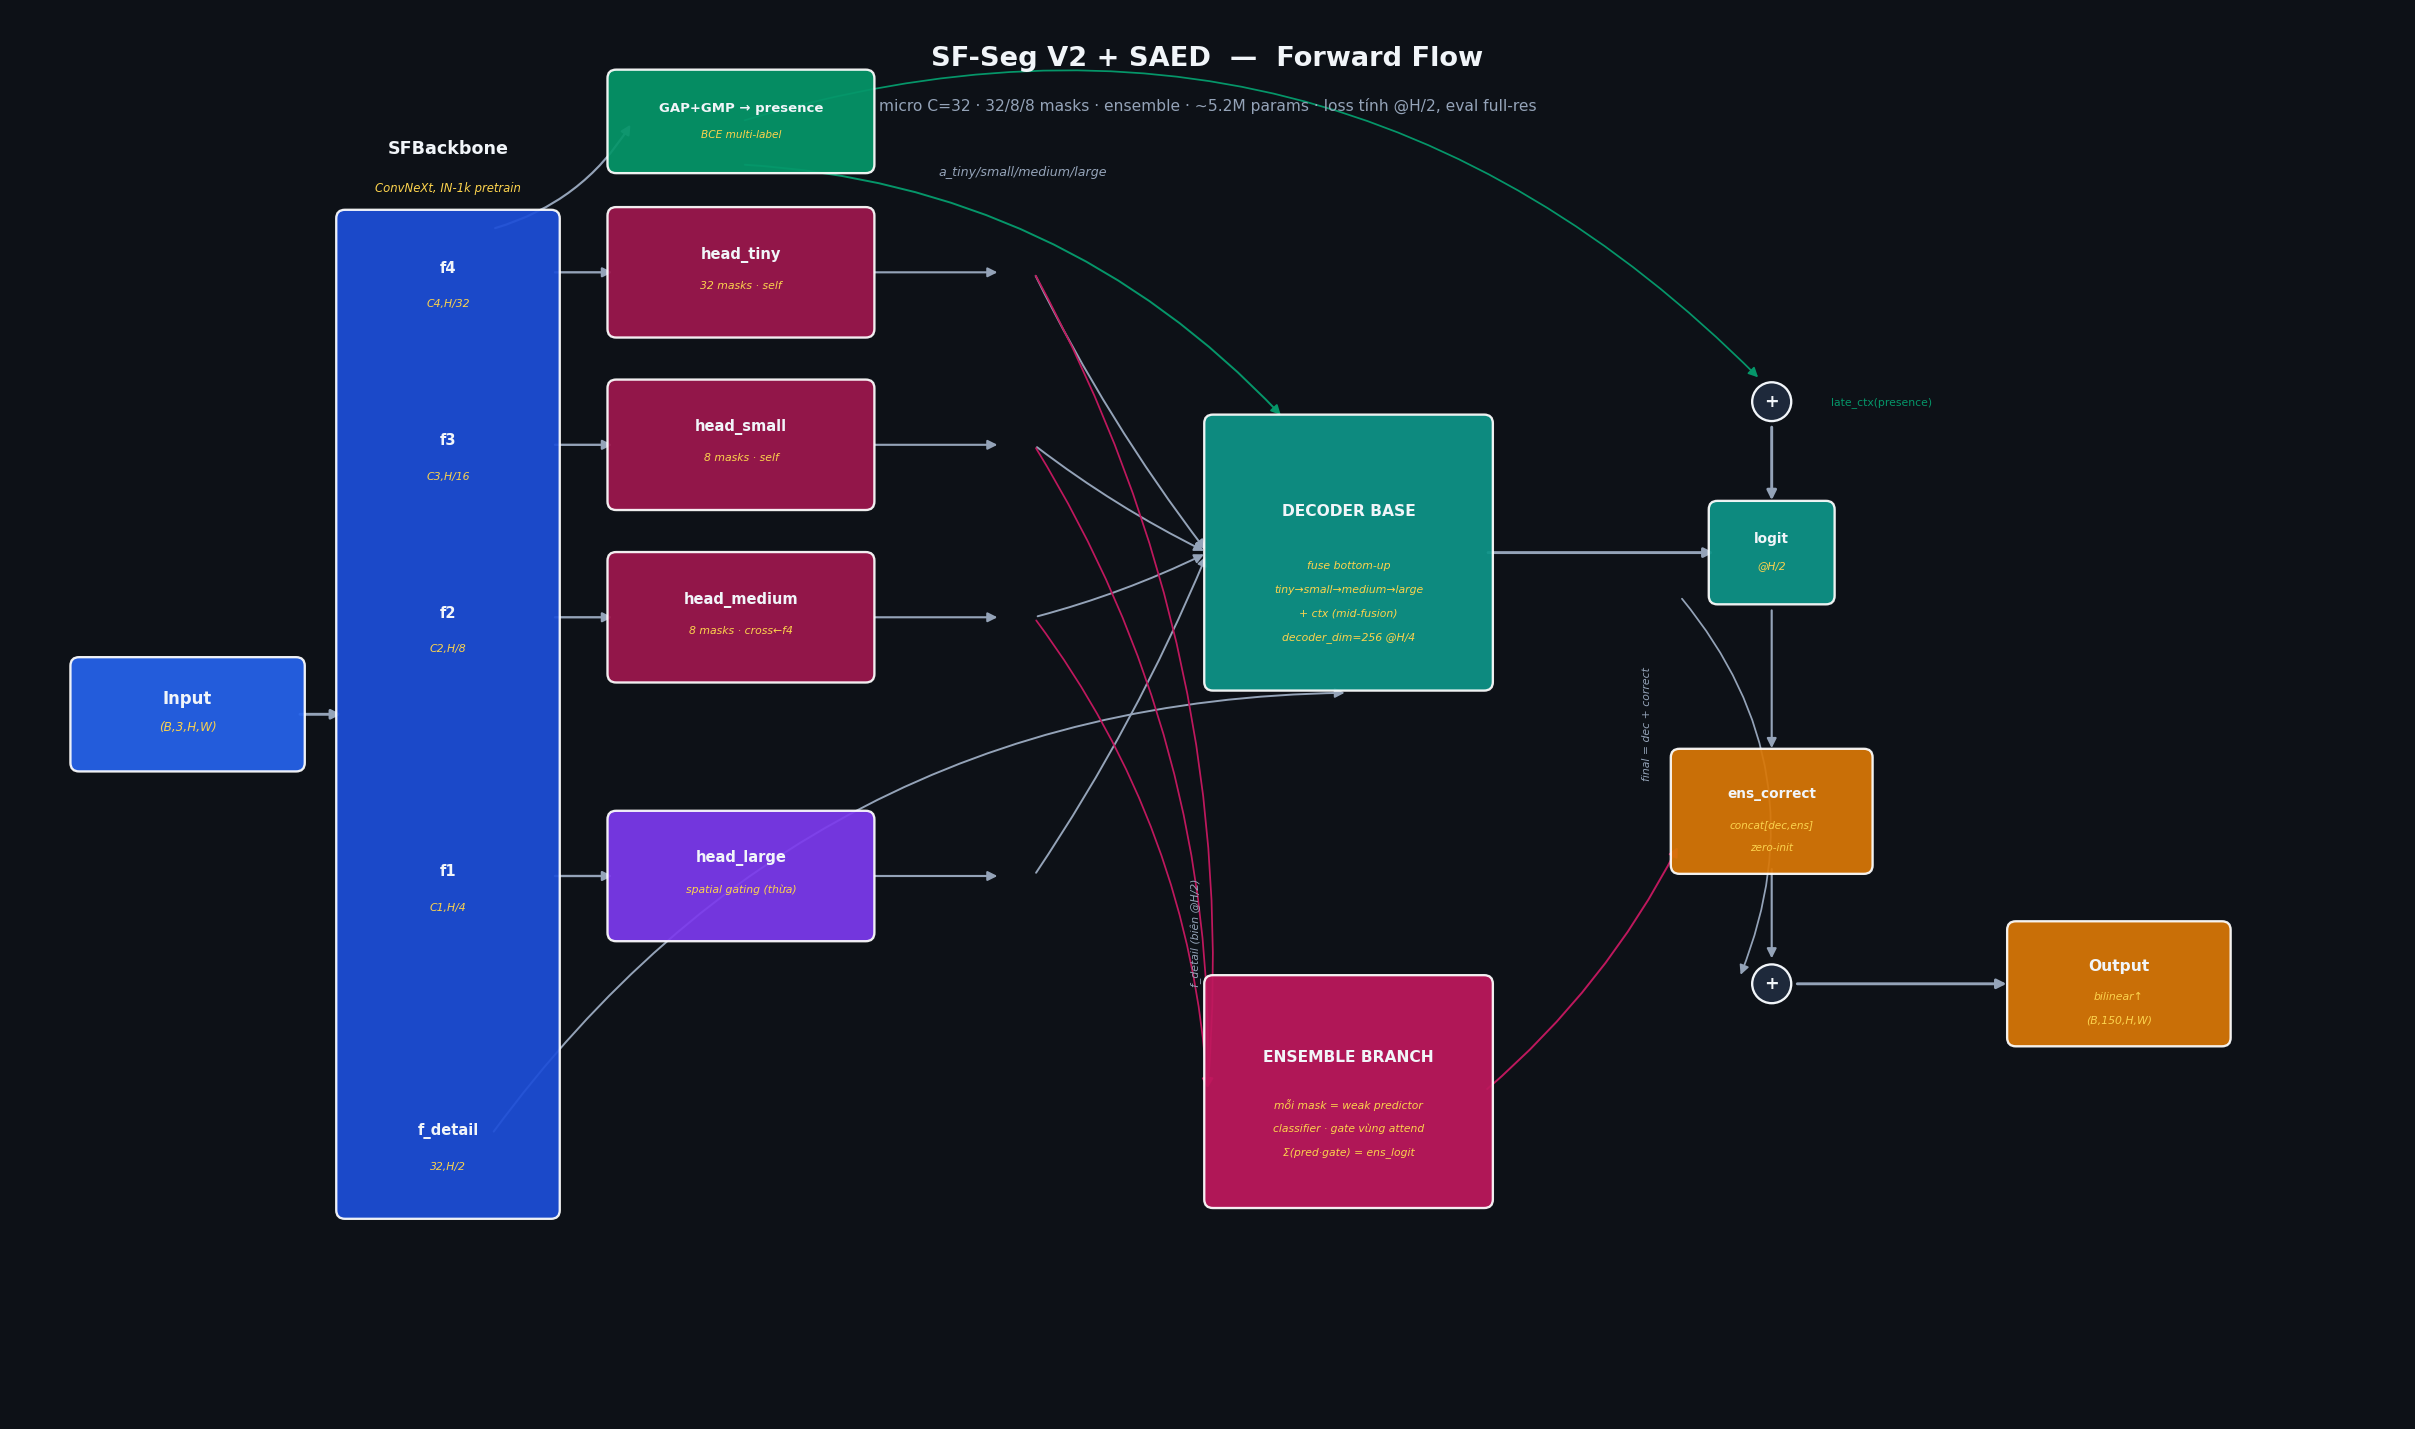
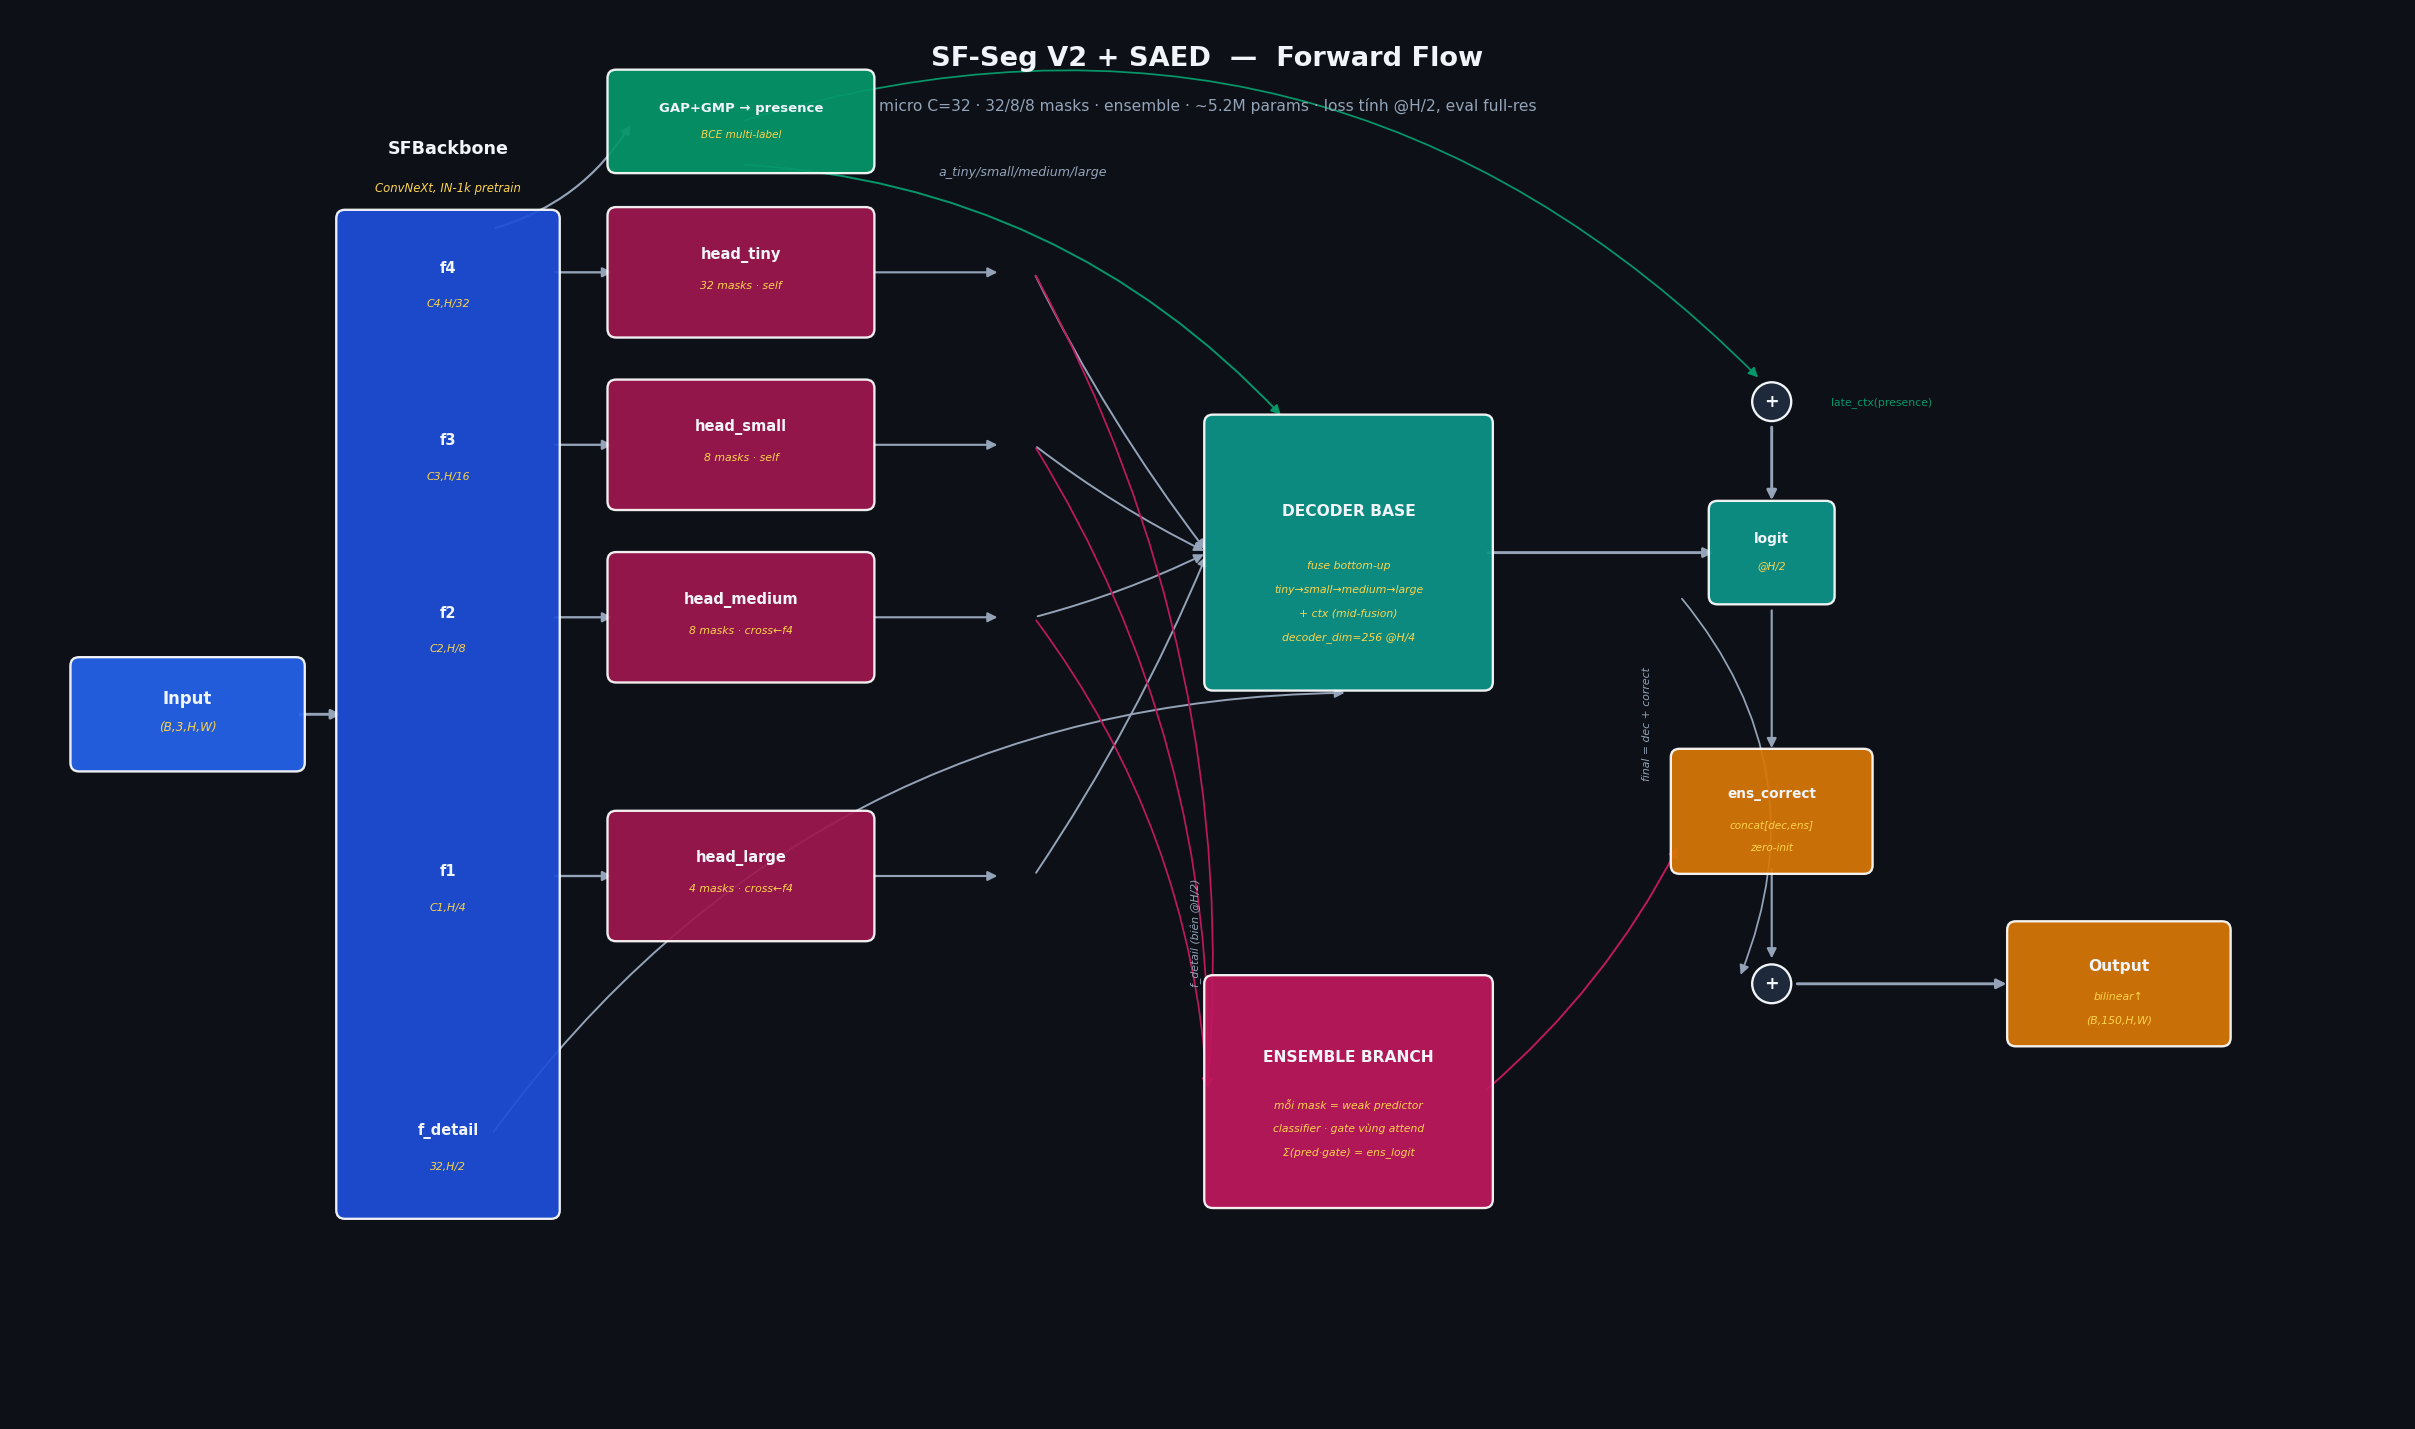
docs: cap nhat MODEL.md + README + diagrams cho top-k sparse + head_large sparse + PE fix
- top-k softmax thay clamp (sparse that), giai thich vi sao clamp khong sparse
- head_large: spatial-gating → SparseAttnHead cross-attn (ca 4 head sparse)
- PE _apply_pe scale theo magnitude (fix sin/cos dominance)
- L_mask region-gated + attn_op/temperature/ensemble vao config table
- regenerate saed_*.png khop kien truc moi; README tro vao saed diagrams + MODEL.md

Changed region(s): [[0.2484, 0.5542, 0.3727, 0.6774]]

diff --git a/scripts/diagram_saed.py b/scripts/diagram_saed.py
@@ -74,7 +74,7 @@ def forward_flow():
         ax.text(XBB, y-0.32, sh, ha='center', fontsize=5.6, color=SH, style='italic')
     # heads
     heads = [('head_tiny','32 masks · self',10.6,C_ATTN),('head_small','8 masks · self',9.0,C_ATTN),
-             ('head_medium','8 masks · cross←f4',7.4,C_ATTN),('head_large','spatial gating (thừa)',5.0,C_HEAD)]
+             ('head_medium','8 masks · cross←f4',7.4,C_ATTN),('head_large','4 masks · cross←f4',5.0,C_ATTN)]
     for nm, sub, y, col in heads:
         box(ax, XHD, y, 2.3, 1.05, col, nm, sub, tsz=7.5, ssz=5.6)
         arr(ax, XBB+0.95, y, XHD-1.15, y, lw=1.2)
@@ -122,8 +122,8 @@ def forward_flow():
 def sparse_head():
     FW, FH = 18, 10
     fig, ax = setup(FW, FH)
-    title(ax, FW, FH, 'SparseAttnHead  —  budget attention + per-mask weak predictor',
-          'decoupled qk_dim=32 · temperature τ học được · budget ladder · clamped_softmax')
+    title(ax, FW, FH, 'SparseAttnHead  —  top-k sparse attention + per-mask weak predictor',
+          'decoupled qk_dim=32 · temperature τ học được · budget ladder · top-k softmax (sparse thật)')
     box(ax, 1.6, 5.0, 1.7, 1.0, C_IN, 'feature', 'f (C,h,w)')
     # Q K V
     box(ax, 4.2, 7.5, 1.6, 0.8, C_HEAD, 'q_proj', 'M×32', tsz=7.5, ssz=5.8)
@@ -136,10 +136,10 @@ def sparse_head():
     box(ax, 6.9, 6.85, 1.8, 0.9, C_ATTN, 'Q·Kᵀ · scale / τ', 'sim (M,N,N_k)', tsz=7, ssz=5.6)
     arr(ax, 5.0,7.5, 6.1,7.0, lw=1.1); arr(ax, 5.0,6.2, 6.1,6.7, lw=1.1)
     # clamp
-    box(ax, 9.5, 6.85, 2.0, 1.0, C_ATTN, 'clamped_softmax', 'budget k/mask\n(ladder)', tsz=7.5, ssz=5.5)
+    box(ax, 9.5, 6.85, 2.0, 1.0, C_ATTN, 'top-k softmax', 'k/mask (ladder)', tsz=7.5, ssz=5.5)
     arr(ax, 7.8,6.85, 8.5,6.85, lw=1.3)
-    ax.text(9.5, 5.55, 'Σ attn = k · cap 1/token', ha='center', fontsize=5.8, color=LGRAY, style='italic')
-    ax.text(9.5, 5.2, '(hiện 0% hard-zero → soft)', ha='center', fontsize=5.8, color='#F87171', style='italic')
+    ax.text(9.5, 5.55, 'giữ top-k → softmax(Σ=1)', ha='center', fontsize=5.8, color=LGRAY, style='italic')
+    ax.text(9.5, 5.2, 'còn lại = 0 (focus đúng k điểm)', ha='center', fontsize=5.8, color='#34D399', style='italic')
     # attn @ V
     box(ax, 12.6, 5.6, 1.7, 0.9, C_DEC, 'attn @ V', 'out (M,dv,h,w)', tsz=7.5, ssz=5.6)
     arr(ax, 10.5,6.5, 11.75,5.9, lw=1.2)

diff --git a/docs/MODEL.md b/docs/MODEL.md
@@ -21,7 +21,7 @@ Phiên bản text để scan nhanh:
    │
    ▼ SFBackbone (ConvNeXt-style, IN-1k pretrained)
    ├─ f_detail (32, H/2)   ── nhánh detail (biên sắc)
-   ├─ f1 (C1, H/4)         → head_large   (spatial gating — gần như thừa)
+   ├─ f1 (C1, H/4)         → head_large   (sparse cross-attn ← f4, 4 masks)
    ├─ f2 (C2, H/8)         → head_medium  (sparse cross-attn ← f4)
    ├─ f3 (C3, H/16)        → head_small   (sparse self-attn)
    └─ f4 (C4, H/32)        → head_tiny    (sparse self-attn) + GAP/GMP → presence
@@ -68,32 +68,30 @@ stage3+stage4 ≈ 72% (capacity dồn về tầng sâu, semantic).
 
 ## 2. Sparse Attention Heads — `SparseAttnHead` (động cơ của model)
 
-3 head sparse (`head_tiny/small/medium`) + 1 head spatial-gating (`head_large`).
+**Cả 4 head đều sparse** (`head_tiny/small/medium/large`, đều `SparseAttnHead`).
 **Ablation chứng minh**: bỏ attention selectivity → mIoU sập 0.24→0.07 (sparse
-attention đóng **+0.16 mIoU, ~69% performance**). head_large gần như vô dụng (+0.0006).
+attention đóng **+0.16 mIoU, ~69% performance**) — đây là động cơ của model.
 
 ![Sparse attention head](saed_02_sparse_head.png)
 
-### 2.1 Cơ chế: budget attention (clamped_softmax)
+### 2.1 Cơ chế: sparse attention (top-k softmax)
 
-Attention thường: `softmax(Q·Kᵀ/√d)` → mọi key nhận mass. Ở đây thay bằng
-**clamped_softmax** (`src/ops/`):
+Attention thường: `softmax(Q·Kᵀ/√d)` → mọi key nhận mass. Ở đây dùng **top-k softmax**
+(`attn_op='topk'`): mỗi query giữ **top-k score**, softmax trên chúng (Σ=1), phần
+còn lại **= 0 cứng** → mỗi query focus **đúng k điểm quan trọng nhất**.
 
 ```
-p = softmax(score) × k          # tổng mass = k (budget)
-tìm λ: Σ clamp(p−λ, 0, 1) = k    # bisection 30 iter (CUDA kernel)
-attn = clamp(p − λ, 0, 1)
+giữ top-k(score) mỗi query → softmax trên k điểm đó (Σ=1) → còn lại = 0
 ```
 
-Ý đồ: mỗi query chỉ "tiêu" ngân sách k → tập trung vào thiểu số token quan trọng.
-**Budget `k = min(focus_size², N_k//4)`** ≈ 25% số token.
+`k` theo budget ladder per-mask. Verify: head_tiny k=12 → active = 12/49 đúng (sparse thật).
 
-> ⚠ **Phát hiện thực nghiệm quan trọng:** với budget = N//4, clamped_softmax
-> hiện chạy ở chế độ **0% hard-zero** — token điểm cao chạm cap 1 nhưng token thấp
-> KHÔNG bị zero (λ ≤ p_min). Tức attention là **soft selective** (token cao trọng
-> số cao hơn) chứ chưa **hard-sparse** (thiểu số pixel sáng) như tên gọi. Hard-zero
-> chỉ xuất hiện khi budget nhỏ hơn nhiều hoặc dùng top-k. Selectivity vẫn quyết
-> định (+0.16) — chỉ là "sparse" đang ở dạng mềm.
+> **Lịch sử & bài học:** trước đây dùng `clamped_softmax` (budget k, `attn_op='clamp'`,
+> CUDA kernel ở `src/ops/`) — nhưng đo được nó **KHÔNG sparse**: budget k là *SÀN* số
+> token active (cap 1/token, Σ=k → cần ≥k token), và attention peaked bị **spread**
+> (λ<0 cộng đều) → 100% token active. Đã thay bằng top-k (sparse thật). `attn_op`
+> giữ cả hai để A/B. Nếu top-k "kẹt" (token bị zero không nhận gradient), cân nhắc
+> sparsemax/entmax (sparse + gradient đầy đủ).
 
 ### 2.2 Temperature τ (sharpening, learnable)
 
@@ -113,10 +111,19 @@ Các mask trong cùng head mang **budget khác nhau** (log-spaced từ `k_max` x
 floor `N_k//32`): mask budget lớn = stuff-detector (sky/wall), mask budget nhỏ =
 object nhỏ. Floor tỉ lệ N_k (không cố định 4) để mask budget nhỏ không collapse.
 
-### 2.5 Positional encoding
+### 2.5 Positional encoding (PE) + temperature τ
 
-sin-cos 2D **tuyệt đối** chuẩn hóa [0,1], cộng vào nhánh **Q/K** (V giữ sạch), 0
-params. Lý do absolute: cặp confusion ceiling↔wall↔floor định nghĩa bằng vị trí.
+sin-cos 2D **tuyệt đối** chuẩn hóa [0,1], cộng vào nhánh **Q/K** (V giữ sạch). Lý do
+absolute: cặp confusion ceiling↔wall↔floor định nghĩa bằng vị trí.
+
+> **Fix quan trọng (`_apply_pe`):** PE std cố định 0.57, nhưng feature các scale lệch
+> nhau cực mạnh (f4 std 1.67 vs f2 std 0.06). Cộng PE thẳng → ở medium PE **lấn át
+> content 8×** → attention thành sin/cos thuần vị trí (vô nghĩa). Fix: scale PE theo
+> magnitude feature × `pe_scale` (learnable, init 0.3) → `PE_std = pe_scale × feat_std`
+> mọi scale → PE luôn là tỉ lệ cố định, không nuốt content (medium ratio 8.28→0.12).
+
+**Temperature τ** (`log_temp`, learnable, config `attn_temperature`): `sim = Q·Kᵀ·scale/τ`
+→ τ<1 làm score sắc hơn (ảnh hưởng độ tập trung của top-k).
 
 ### 2.6 Anti-collapse diversity loss
 
@@ -124,10 +131,14 @@ Trong forward (grad-enabled): phạt cosine similarity giữa received-attention
 các mask → buộc chúng khác nhau. Lưu ý: ngăn collapse *giống hệt* nhưng có thể đẻ
 "pattern khác nhau bằng nhiễu" nếu feature scale đó không đủ giàu (small/medium).
 
-### 2.7 head_medium = cross-attention
+### 2.7 Cross-attention heads (medium + large)
 
-Q từ f2 (H/8), **K,V từ f4** (global, H/32) → mỗi query local nhìn toàn bộ token
-global. Rẻ (ít key) mà mang context toàn cục.
+- **head_medium**: Q từ f2 (H/8), K,V từ f4 (global, H/32) → query local nhìn token global.
+- **head_large**: Q từ f1 (H/4, high-res), K,V từ f4 (global), 4 masks. *Trước* là
+  spatial-gating dense (clamp k≥N → "đỏ hết", ablation +0.0006 vô dụng); đã **convert
+  sang SparseAttnHead cross-attn** → sparse + global context ở độ phân giải cao nhất.
+
+Cross-attn rẻ (ít key f4) mà mang context toàn cục.
 
 ---
 
@@ -249,11 +260,15 @@ L = L_seg(final, label)                         # focal CE (sqrt-freq) + soft Io
 | Phát hiện | Số liệu | Hệ quả |
 |---|---|---|
 | Sparse attention là engine | bỏ selectivity → mIoU 0.24→0.07 | kiến trúc attention đúng, giữ |
-| head_large thừa | tắt → +0.0006 | có thể cắt |
 | head_tiny quan trọng nhất | tắt → −0.055 | feature sâu (f4) gánh semantic |
-| clamp 0% hard-zero | đo trực tiếp | "sparse" đang soft, cần top-k/budget nhỏ nếu muốn hard |
+| clamp KHÔNG sparse | 100% token active, peaked→spread | **đã thay bằng top-k** (active=k đúng) |
+| PE lấn át content medium | ratio 8.28 (f2 std 0.06) | **đã fix** `_apply_pe` scale theo magnitude |
+| head_large spatial-gating thừa | tắt → +0.0006 | **đã convert** sang sparse cross-attn |
 | Trần là đuôi dài | top-30 mIoU ~0.30, 100+ class ~0.05 | SAED + copy-paste nhắm chỗ này |
 | Data-limited | train 0.50 vs val 0.29, gap 0.30 | IN-1k pretrain + augment là đòn chính |
+
+*(Các findings cũ — clamp soft, head_large thừa, PE sin/cos — đã được sửa bằng top-k,
+convert sparse cross-attn, và `_apply_pe`. Bảng ghi cả vấn đề lẫn fix để truy vết.)*
 
 **mIoU tốt nhất hiện tại**: ~0.286 @384px (`backups/sf_seg_384_miou2856.pt`).
 Mục tiêu cạnh tranh SegFormer-B0 (~0.374) cần: 512 tuning + phá trần data
@@ -265,9 +280,10 @@ Mục tiêu cạnh tranh SegFormer-B0 (~0.374) cần: 512 tuning + phá trần d
 
 - `src/models/sf_seg_v2.py` — model: `sf_seg_v2`, `SFBackbone`, `ConvNeXtBlock`,
   `_build_ensemble`, presence/ensemble heads.
-- `src/models/sf_seg_r18.py` — `SparseAttnHead` (budget attn, temperature, qk
-  decoupled, ladder, PE, per-mask output), `AttentionHead` (head_large), `_sincos_pe_2d`.
-- `src/ops/` — `clamped_softmax` (CUDA kernel + analytical backward).
+- `src/models/sf_seg_r18.py` — `SparseAttnHead` (top-k/clamp attn, temperature, qk
+  decoupled, ladder, PE `_apply_pe`, per-mask output), `_topk_softmax`, `_sincos_pe_2d`.
+  (`AttentionHead` còn nhưng không dùng — head_large đã chuyển sparse.)
+- `src/ops/` — `clamped_softmax` (CUDA kernel) — nay là tùy chọn `attn_op='clamp'`.
 - `src/losses/sf_loss.py` — `sf_loss`, `_seg_term` (focal CE + soft IoU).
 - `src/training/trainer.py` — train loop, `ADE20KDataset` (+copy-paste),
   `AllClassBatchSampler`, per-mask/presence/aux losses, config merge.
